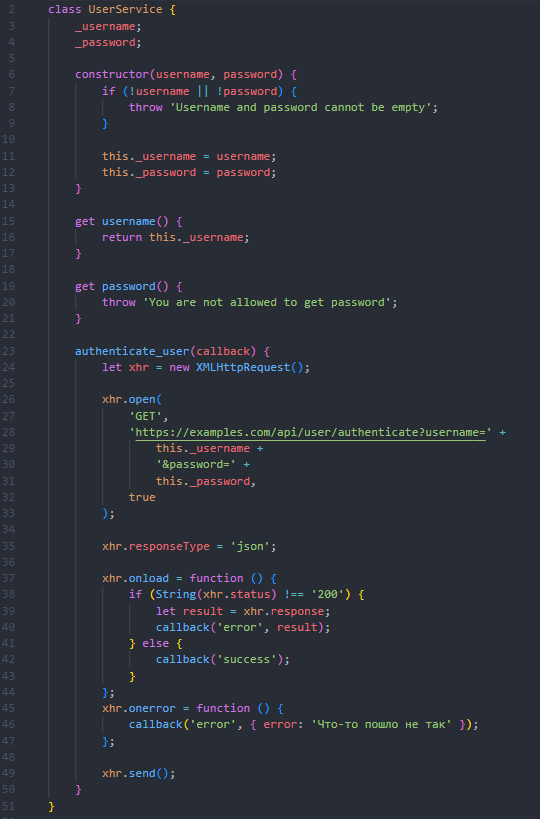
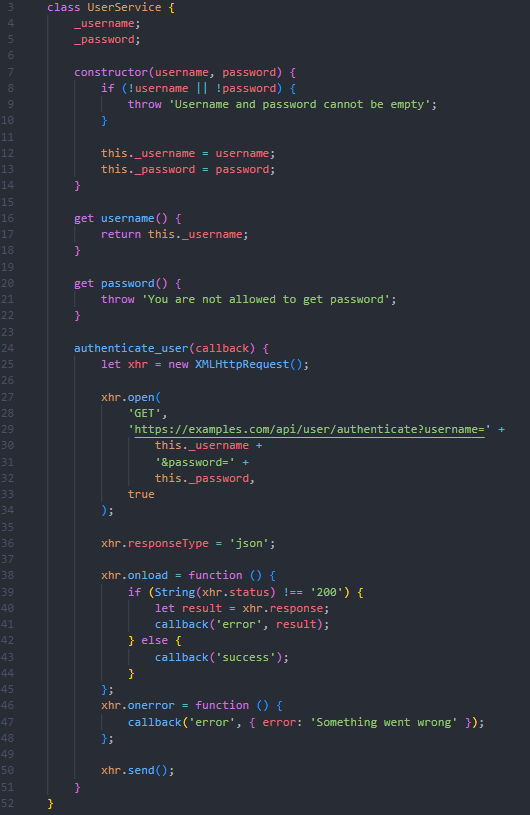
Minor changes

diff --git a/final.js b/final.js
@@ -1,3 +1,5 @@
+
+
 class UserService {
 	_username;
 	_password;
@@ -42,7 +44,7 @@ class UserService {
 			}
 		};
 		xhr.onerror = function () {
-			callback('error', { error: 'Что-то пошло не так' });
+			callback('error', { error: 'Something went wrong' });
 		};
 
 		xhr.send();
